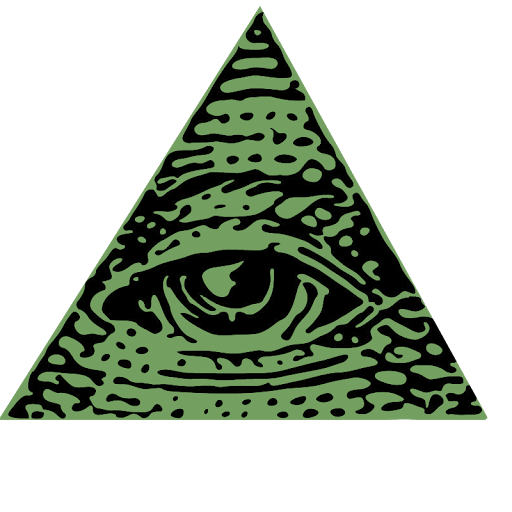
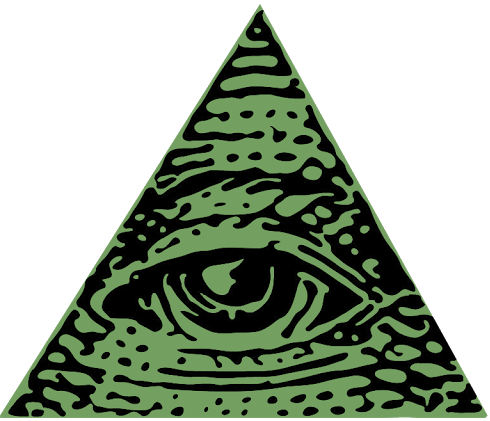
postionImg

diff --git a/src/components/LiveImg/LiveImg.ts b/src/components/LiveImg/LiveImg.ts
@@ -263,7 +263,7 @@ export default class LiveImg {
     * Возвращает массив цветов пикселей 
     * TODO: дописать комментарий 
     */
-   private getPixelColors(): string[] { 
+   private getPixelColors(): string[] {
       const allPixels = this.getImgPixels();
 
       return [];
@@ -274,7 +274,7 @@ export default class LiveImg {
     * возвращаются пиксели не this._img, а пиксели канваса, с 
     * размерами this._size и нарисованной на нем this._img
     */
-   private getImgPixels(): number[] { 
+   private getImgPixels(): number[] {
       // Create temporary canvas
       const canvas = document.createElement('canvas');
       const ctx = canvas.getContext('2d');
@@ -287,7 +287,43 @@ export default class LiveImg {
       ctx.fillRect(0, 0, this._size.x, this._size.y);
 
       // Draw the image
-      ctx.drawImage(this._img, 0, 0);
+      //TODO: реализовать возможность выбора рисования как bg-size: cover 
+
+      const imgSize = new Vector(
+         this._img.naturalWidth, this._img.naturalHeight,
+      );
+
+      const imgRatio = imgSize.x / imgSize.y;
+      const liveImgRatio = this._size.x / this._size.y;
+
+      let dw = imgSize.x;
+      let dh = imgSize.y;
+
+      if (dw > this._size.x) {
+         dw = this._size.x;
+         dh = dw / imgRatio;
+
+         if (dh > this._size.y) {
+            dh = this._size.y;
+            dw = dh * imgRatio;
+         }
+      }
+
+      else if (dh > this._size.y) {
+         dh = this._size.y;
+         dw = dh * imgRatio;
+
+         if (dw > this._size.x) {
+            dw = this._size.x;
+            dh = dw / imgRatio;
+         }
+      }
+
+      ctx.drawImage(this._img,
+         this._size.x / 2 - dw / 2,
+         this._size.y / 2 - dh / 2,
+         dw, dh
+      );
 
       document.body.appendChild(canvas);
       canvas.style.cssText = `
@@ -391,7 +427,7 @@ export default class LiveImg {
     * @param img картинка
     * (просто устанавливает свойство)
     */
-   private _setImg(img: HTMLImageElement) { 
+   private _setImg(img: HTMLImageElement) {
       this._img = img;
    }
 
@@ -415,7 +451,7 @@ export default class LiveImg {
     * Устанавливает картинку, которую пиксели будут имитировать
     * @param img картинка
     */
-   public setImg(img: HTMLImageElement) { 
+   public setImg(img: HTMLImageElement) {
       this._setImg(img);
       this.useImg();
    }

diff --git a/src/index.ts b/src/index.ts
@@ -13,6 +13,7 @@ const imgSources = {
    'year2019': require('./img/examples/2019.jpg'),
    'flower': require('./img/examples/flower.jpg'),
    'girl': require('./img/examples/girl.jpg'),
+   'girl2': require('./img/examples/girl2.jpg'),
    'cat': require('./img/examples/cat.jpg'),
    'shark': require('./img/examples/shark.png'),
    'masons': require('./img/examples/masons.png'),
@@ -20,6 +21,9 @@ const imgSources = {
    'eye': require('./img/examples/eye.jpg'),
    'pixelOwl': require('./img/examples/pixelOwl.webp'),
    'glitch': require('./img/examples/glitch.jpg'),
+   'mask': require('./img/examples/mask.jpg'),
+   'darwin': require('./img/examples/darwin.jpg'),
+   'child': require('./img/examples/child.jpg'), 
 };
 
 const liveImg = global.img = new LiveImg({
